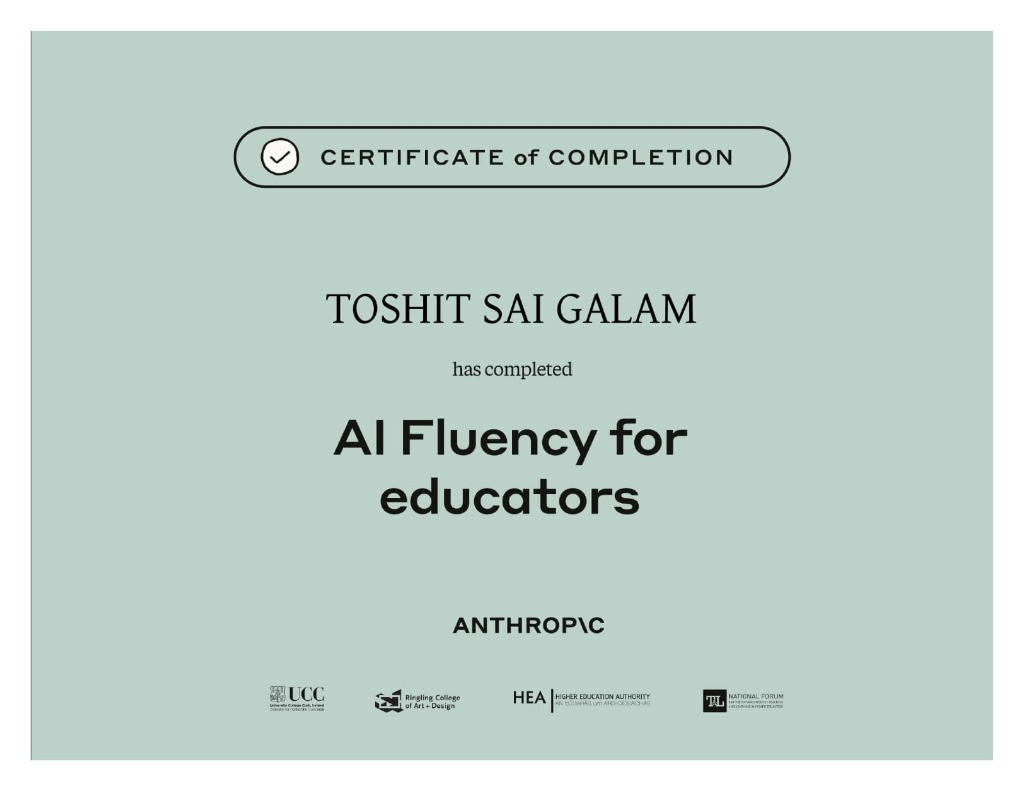
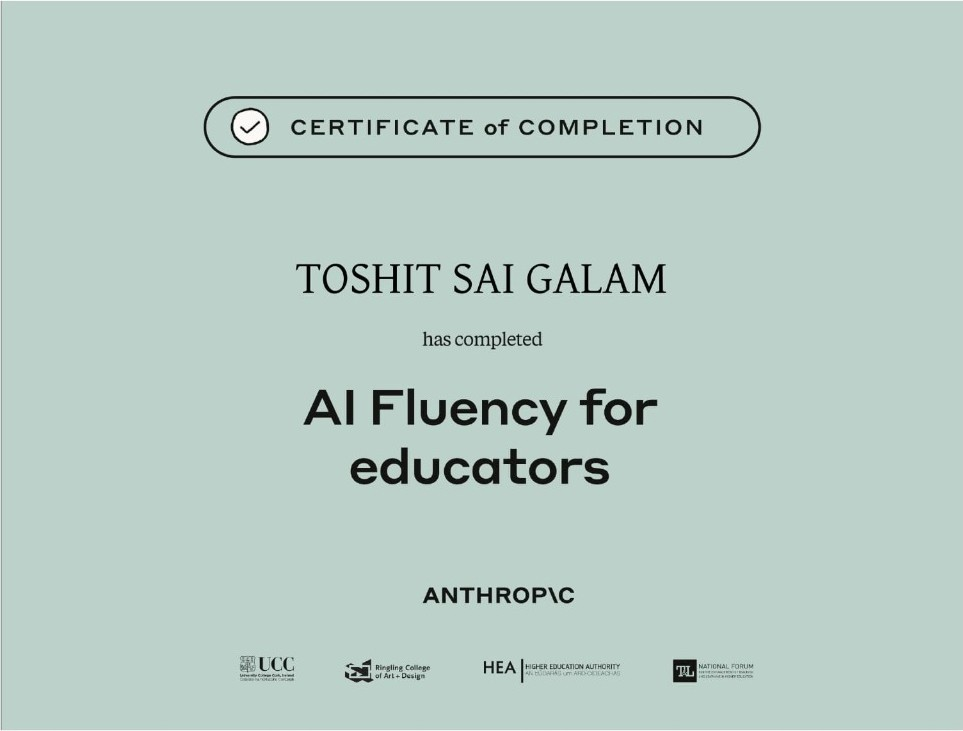
style: remove all white background and outer margins completely from certificate cards

diff --git a/src/components/portfolio/Certificate3DCarousel.tsx b/src/components/portfolio/Certificate3DCarousel.tsx
@@ -374,26 +374,26 @@ export const Certificate3DCarousel: React.FC<Certificate3DCarouselProps> = ({
               }}
               className="group cursor-pointer flex items-center justify-center"
             >
-              {/* TIGHT DOCUMENT WRAPPER WITH MINIMAL 4-6PX MARGIN & SUBTLE BORDER */}
+              {/* TIGHT ZERO-PADDING DOCUMENT WRAPPER */}
               <div
-                className={`relative rounded-xl sm:rounded-2xl p-1 sm:p-1.5 border transition-all duration-300 ${
+                className={`relative rounded-xl sm:rounded-2xl overflow-hidden border transition-all duration-300 ${
                   isActive
-                    ? "border-[#20252B]/12 bg-[#20252B]/4 shadow-[0_20px_50px_rgba(32,37,43,0.18)] hover:shadow-[0_26px_60px_rgba(32,37,43,0.25)]"
-                    : "border-[#20252B]/8 bg-[#20252B]/2 shadow-md grayscale-[15%] hover:grayscale-0 opacity-90"
+                    ? "border-[#20252B]/12 shadow-[0_20px_50px_rgba(32,37,43,0.18)] hover:shadow-[0_26px_60px_rgba(32,37,43,0.25)]"
+                    : "border-[#20252B]/8 shadow-md grayscale-[15%] hover:grayscale-0 opacity-90"
                 }`}
               >
-                {/* CERTIFICATE IMAGE DIRECTLY FILLING CONTAINER */}
-                <div className="relative rounded-lg sm:rounded-xl overflow-hidden flex items-center justify-center">
+                {/* CERTIFICATE IMAGE FILLING 100% OF CARD BOUNDARY */}
+                <div className="relative flex items-center justify-center">
                   <img
                     src={cert.image}
                     alt={cert.title}
                     loading="eager"
-                    className="w-auto h-auto max-w-[280px] sm:max-w-[540px] md:max-w-[660px] lg:max-w-[740px] max-h-[220px] sm:max-h-[350px] md:max-h-[410px] object-contain rounded-lg sm:rounded-xl block transition-transform duration-500 group-hover:scale-[1.008]"
+                    className="w-auto h-auto max-w-[280px] sm:max-w-[540px] md:max-w-[660px] lg:max-w-[740px] max-h-[220px] sm:max-h-[350px] md:max-h-[410px] object-contain block transition-transform duration-500 group-hover:scale-[1.008]"
                   />
 
                   {/* HOVER OVERLAY FOR ACTIVE CARD */}
                   {isActive && (
-                    <div className="absolute inset-0 rounded-lg sm:rounded-xl bg-[#20252B]/0 group-hover:bg-[#20252B]/15 transition-colors duration-300 flex items-center justify-center">
+                    <div className="absolute inset-0 bg-[#20252B]/0 group-hover:bg-[#20252B]/15 transition-colors duration-300 flex items-center justify-center">
                       <button
                         ref={isActive ? triggerButtonRef : null}
                         type="button"
